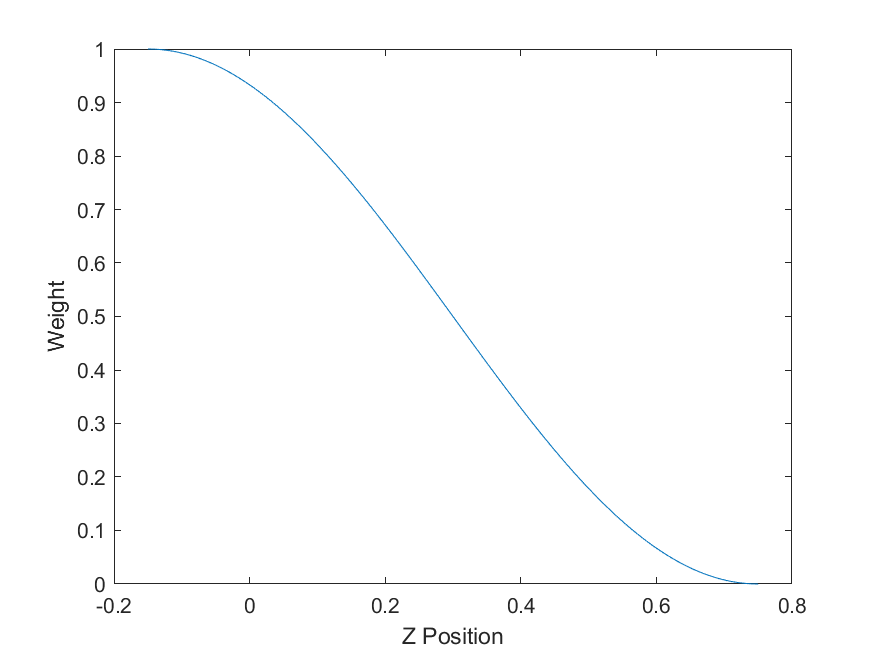
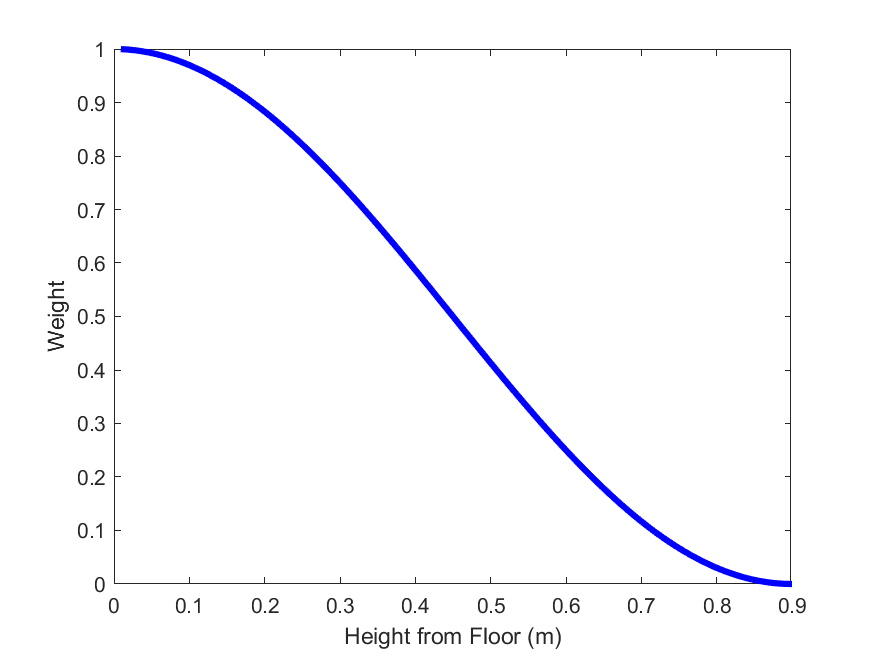
Tweaked some plots

diff --git a/misc/plot_weight.m b/misc/plot_weight.m
@@ -14,7 +14,12 @@ inPts = [x' y' z'];
 
 outPts = weight(inPts, gbox);
 
-plot(inPts(:,3), outPts(:,3) ./ inPts(:,3), 'b-', 'LineWidth', 3);
+oldHeight = inPts(:,3) + gbox.floor;
+newHeight = outPts(:,3) + gbox.floor;
 
-xlabel("Z Position");
+w = newHeight ./ oldHeight;
+
+plot(oldHeight, w, 'b-', 'LineWidth', 3);
+
+xlabel("Height from Floor (m)");
 ylabel("Weight");

diff --git a/misc/plot_optimization.m b/misc/plot_optimization.m
@@ -14,7 +14,7 @@ ylabel("Link 2 + Link 3 Length");
 zlabel("Gamut Envelope Weighted Volume");
 
 view(-37.5, 30);
-set(gcf, 'Position', [0 0 1000 1000]);
+set(gcf, 'Position', [0 0 500 500]);
 
 end
 
